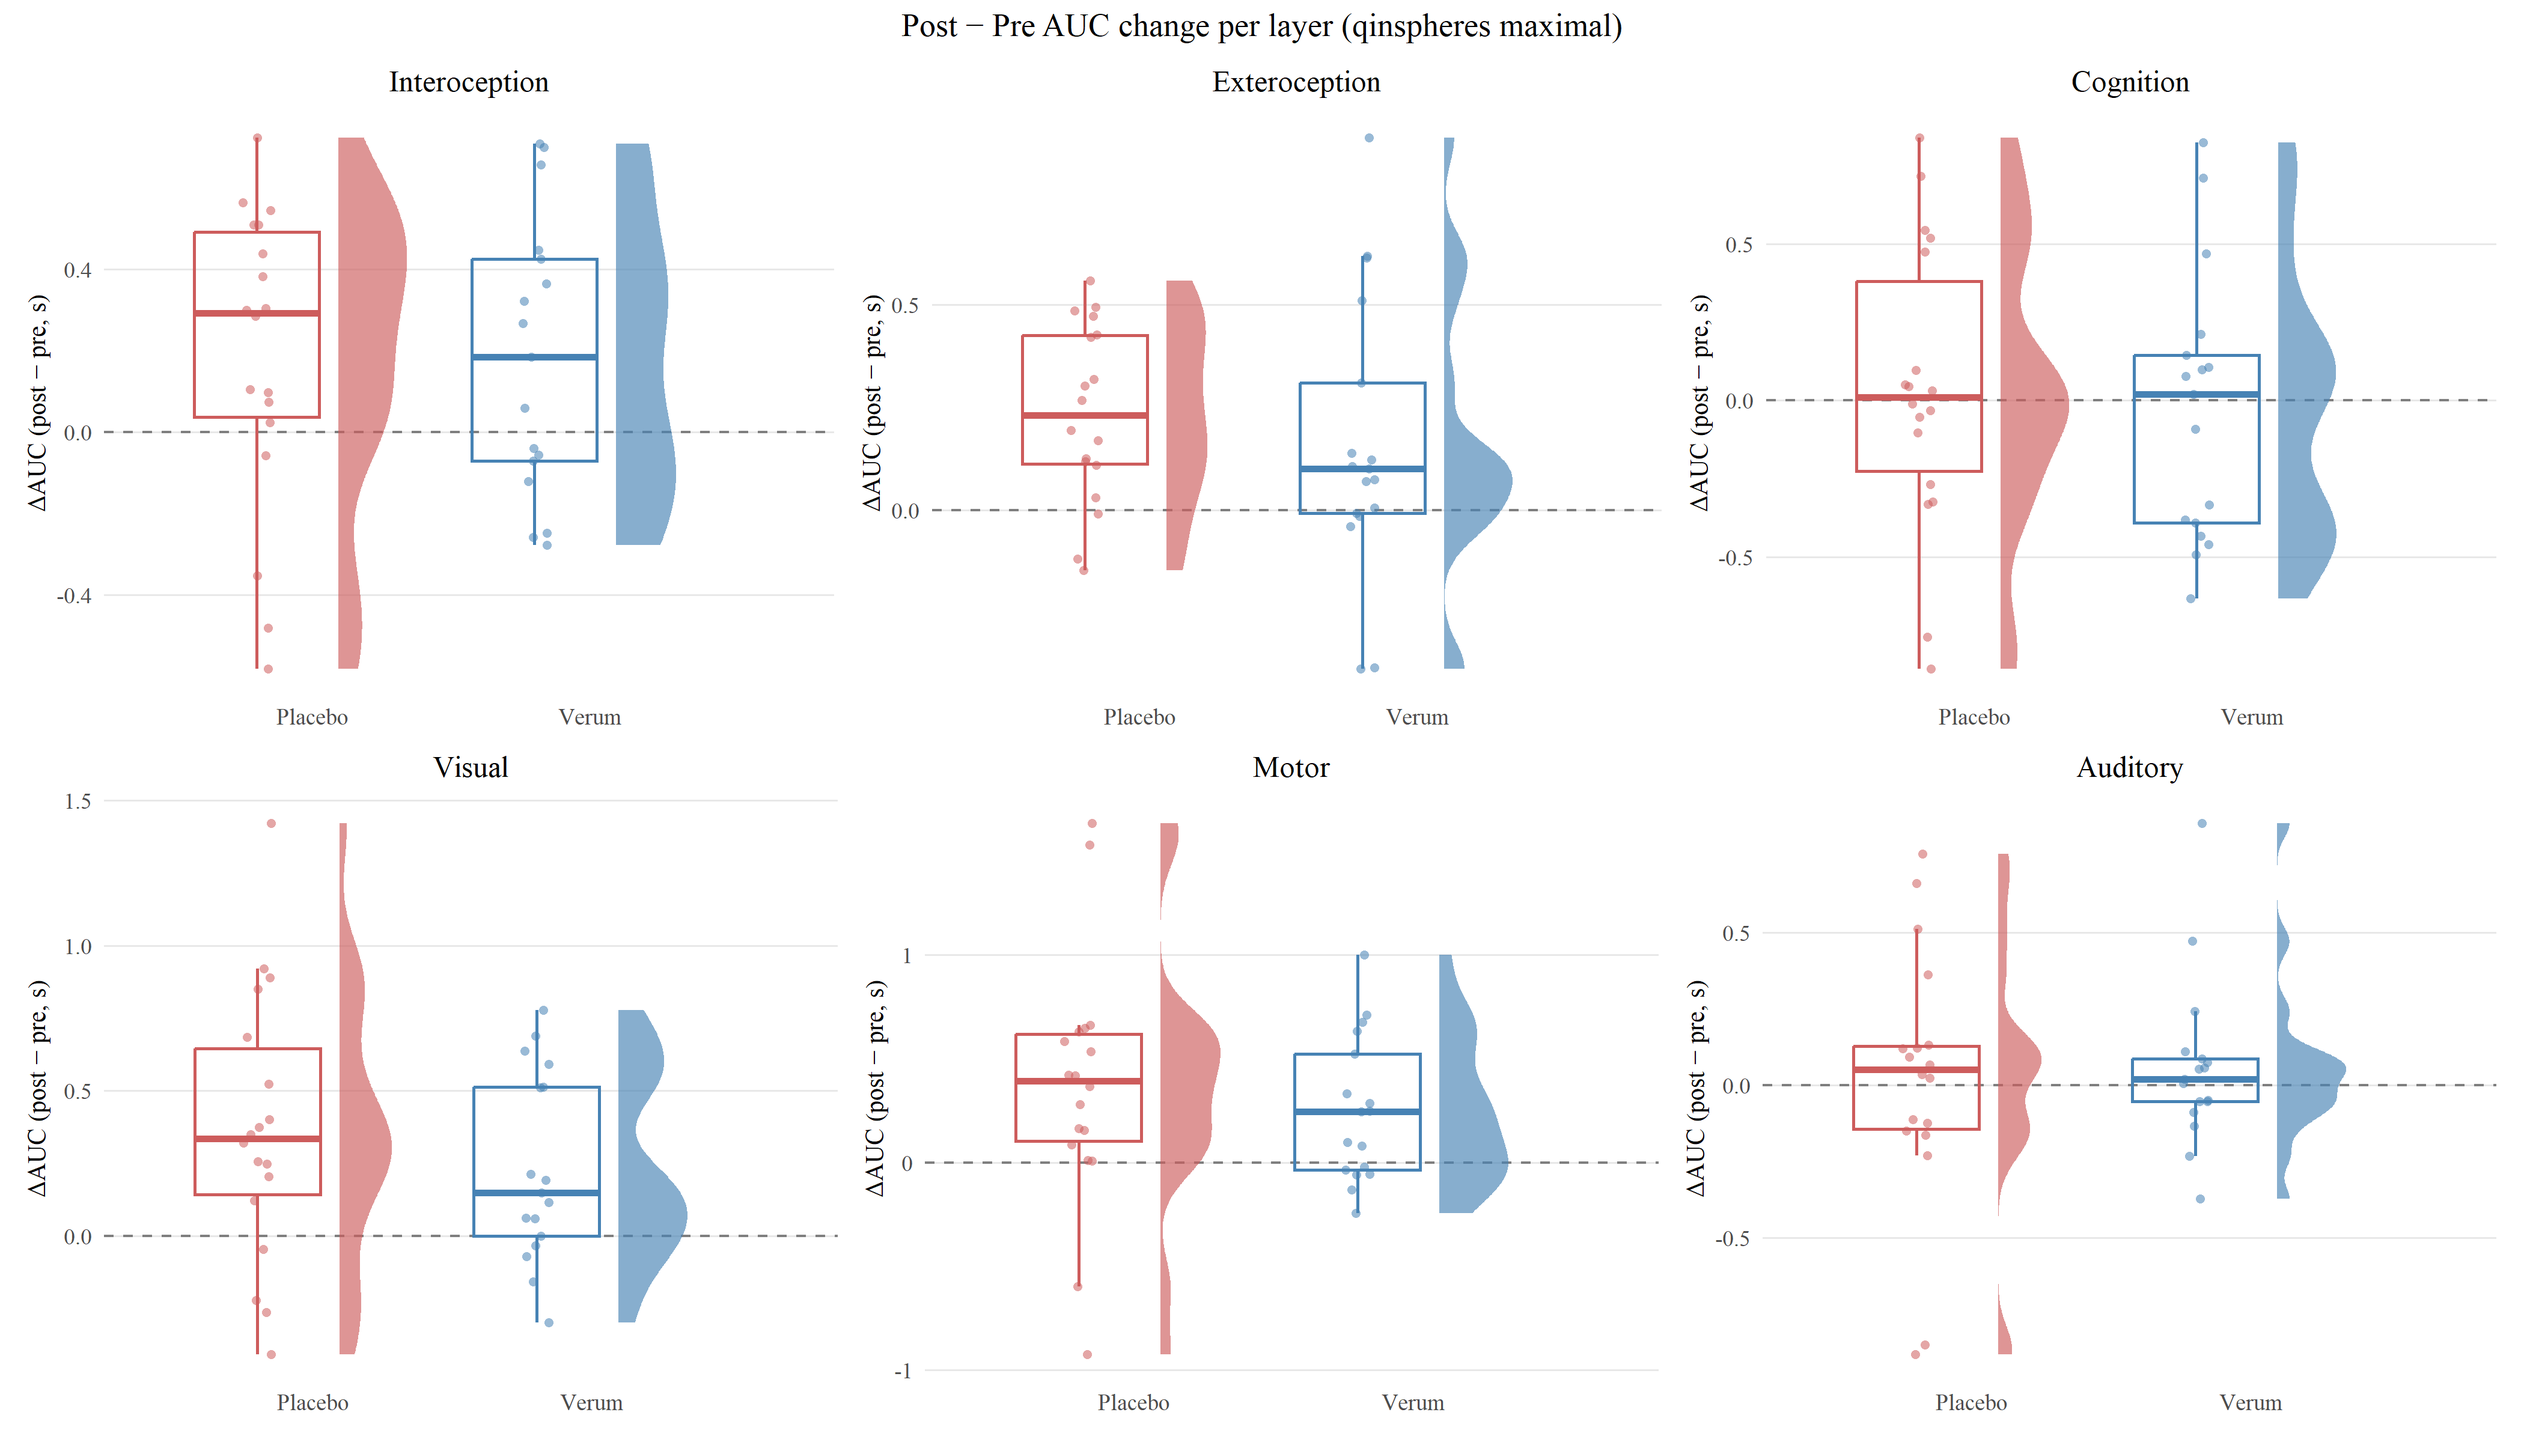
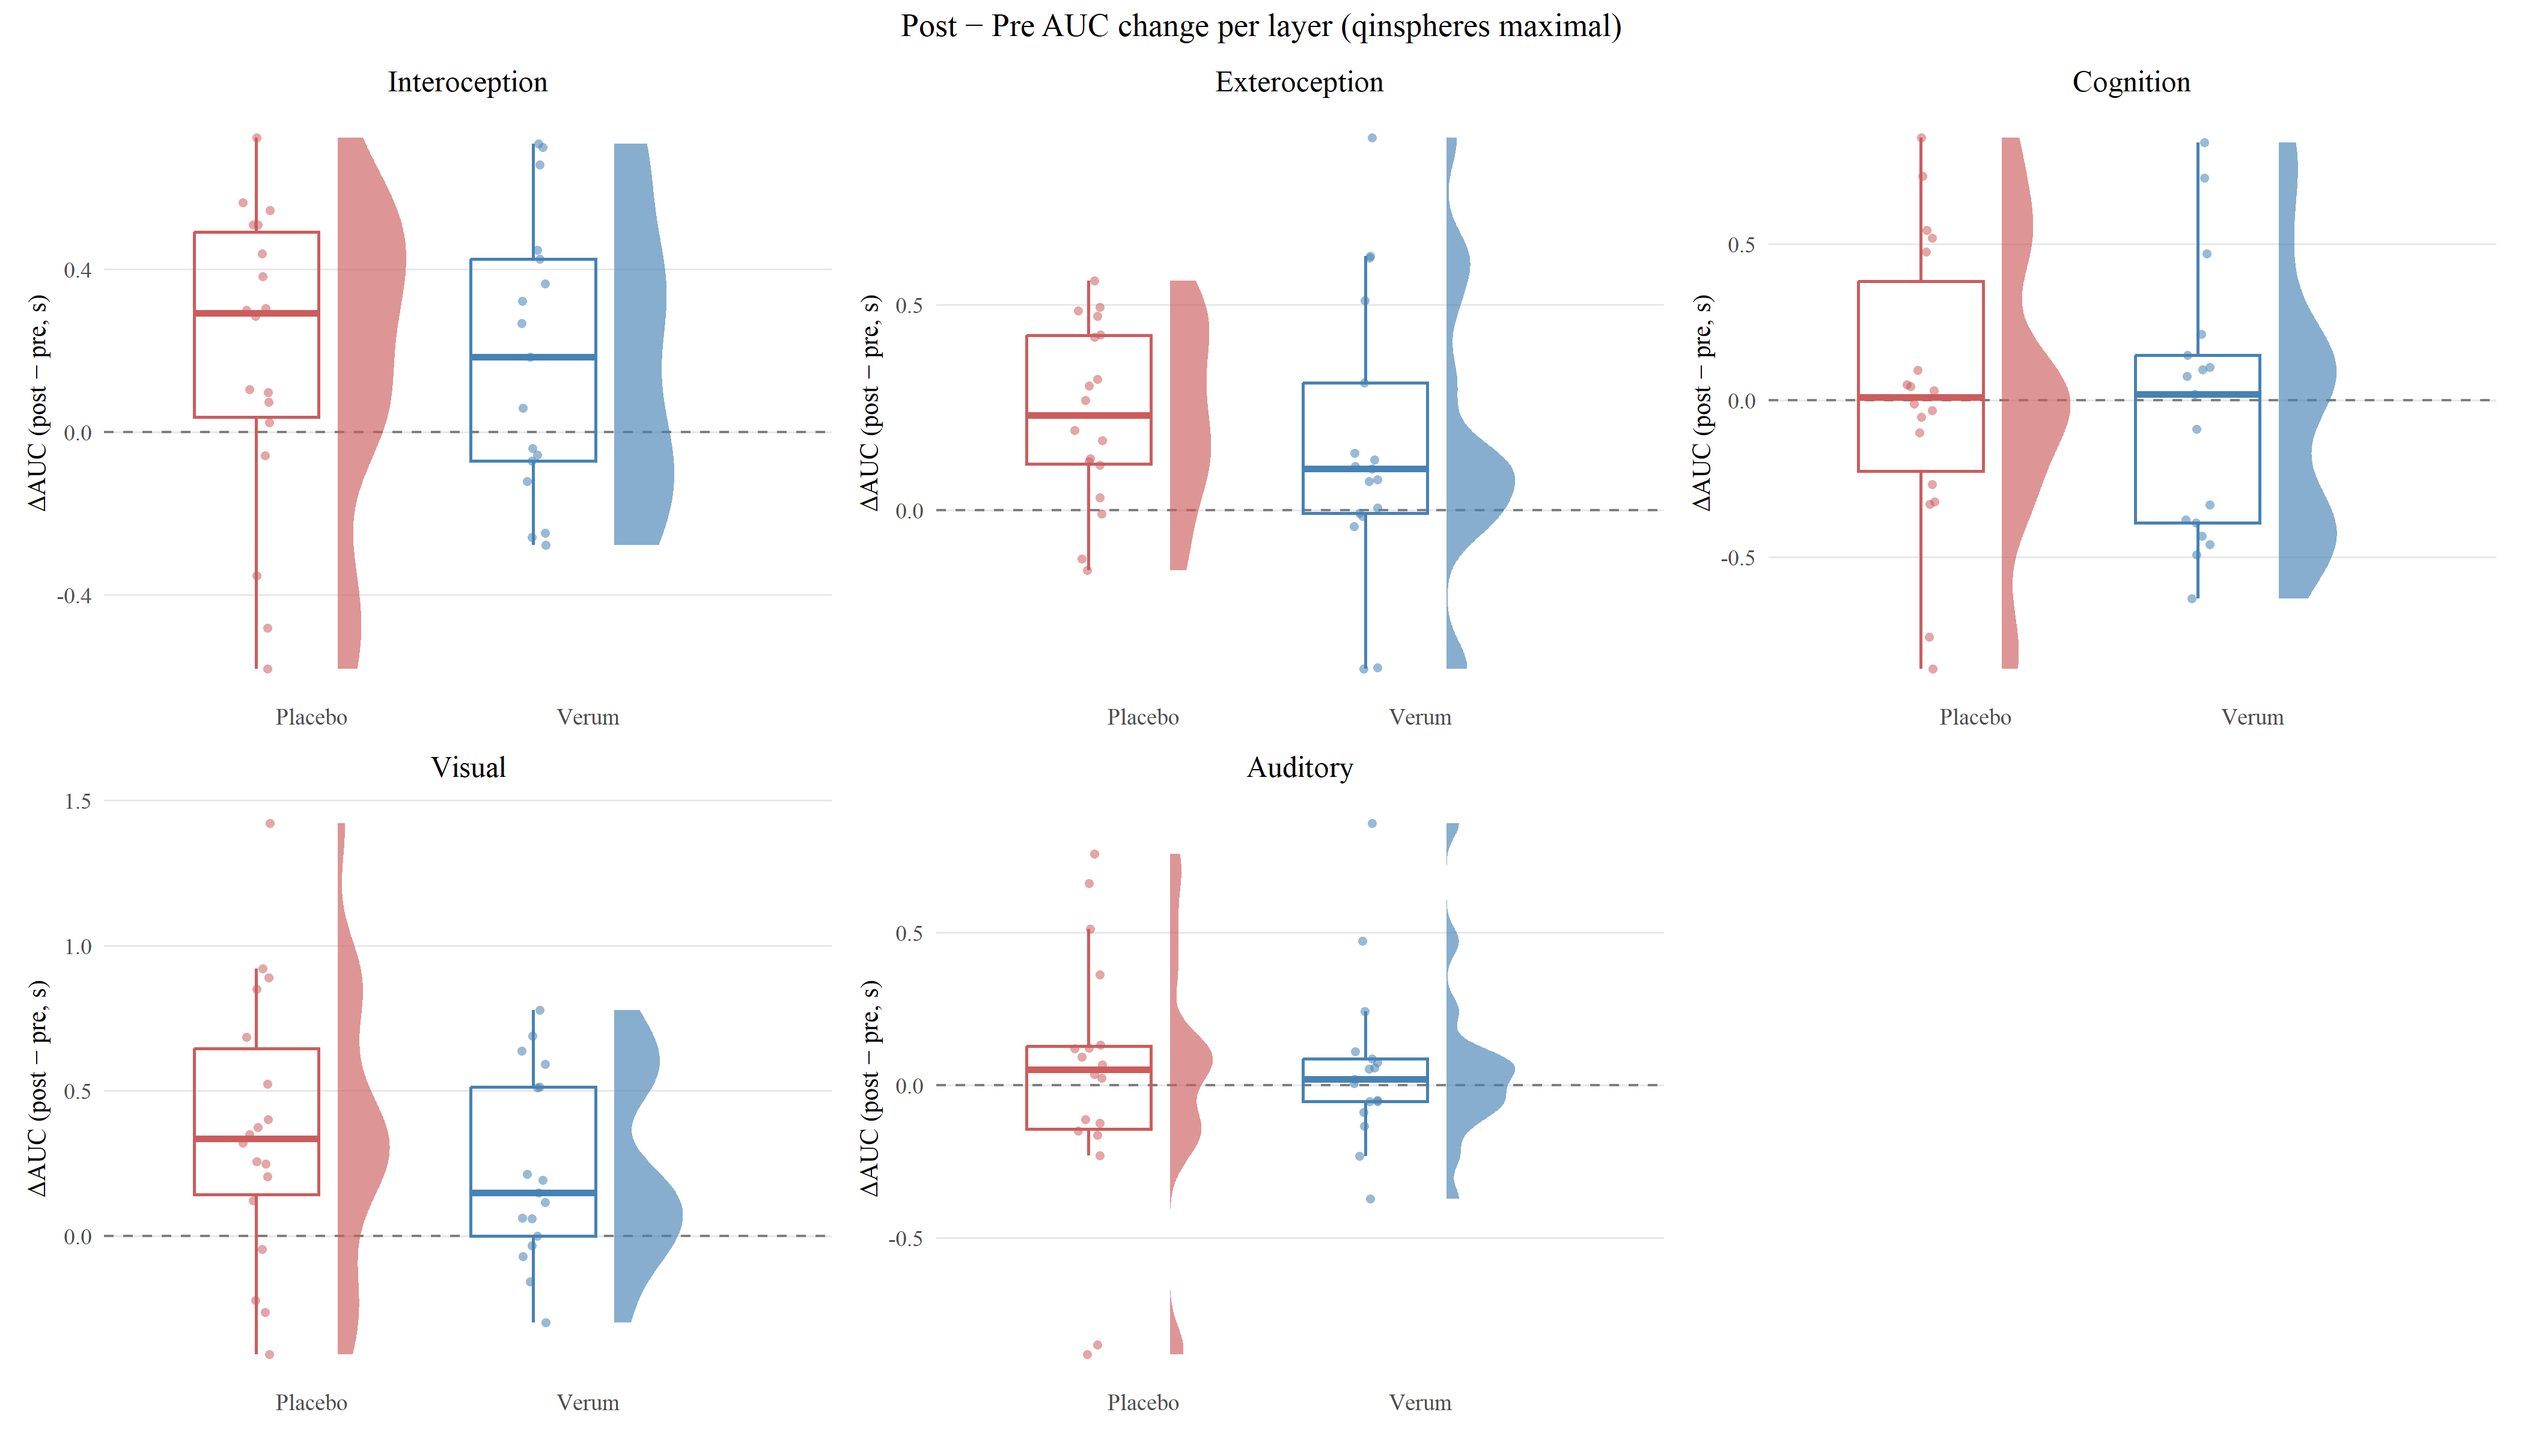
Drop motor panel from all figures (5-region layout)
04_figures.R: remove motor from LAYER_ORDER (excludes its data from every figure) and switch
assemble6 to a flexible patchwork::wrap_plots(ncol=3) so 5 panels lay out cleanly. Re-ran
figures for the 3 cells -> 5-panel figures (intero/extero/cognition/visual/auditory), motor
gone, DiD brackets = LMM. CLAUDE updated.

diff --git a/CLAUDE.md b/CLAUDE.md
@@ -265,7 +265,8 @@ python  04_statistics/scripts/qinspheres/02_build_sampen.py [atlas]             
 Rscript 04_statistics/scripts/qinspheres/03_mixed_models.R [pipeline] [atlas]        # retreat + DiD LMMs -> results/mixed_models/
 Rscript 04_statistics/scripts/qinspheres/04_figures.R [pipeline] [metric] [atlas]    # figures
 ```
-`04_figures.R` ports the parcels raincloud/serif/bracket aesthetic to 6 layers (its
+`04_figures.R` ports the parcels raincloud/serif/bracket aesthetic to the **5 layers**
+(motor excluded; flexible `wrap_plots` layout). Its
 significance brackets still read the archived permutation `layer_drug_effect.csv`; repoint to
 the mixed-model outputs when convenient).
 (The legacy `02_scatter.R` / `03_drug_effect_figures.R` figure scripts were **removed** — they
